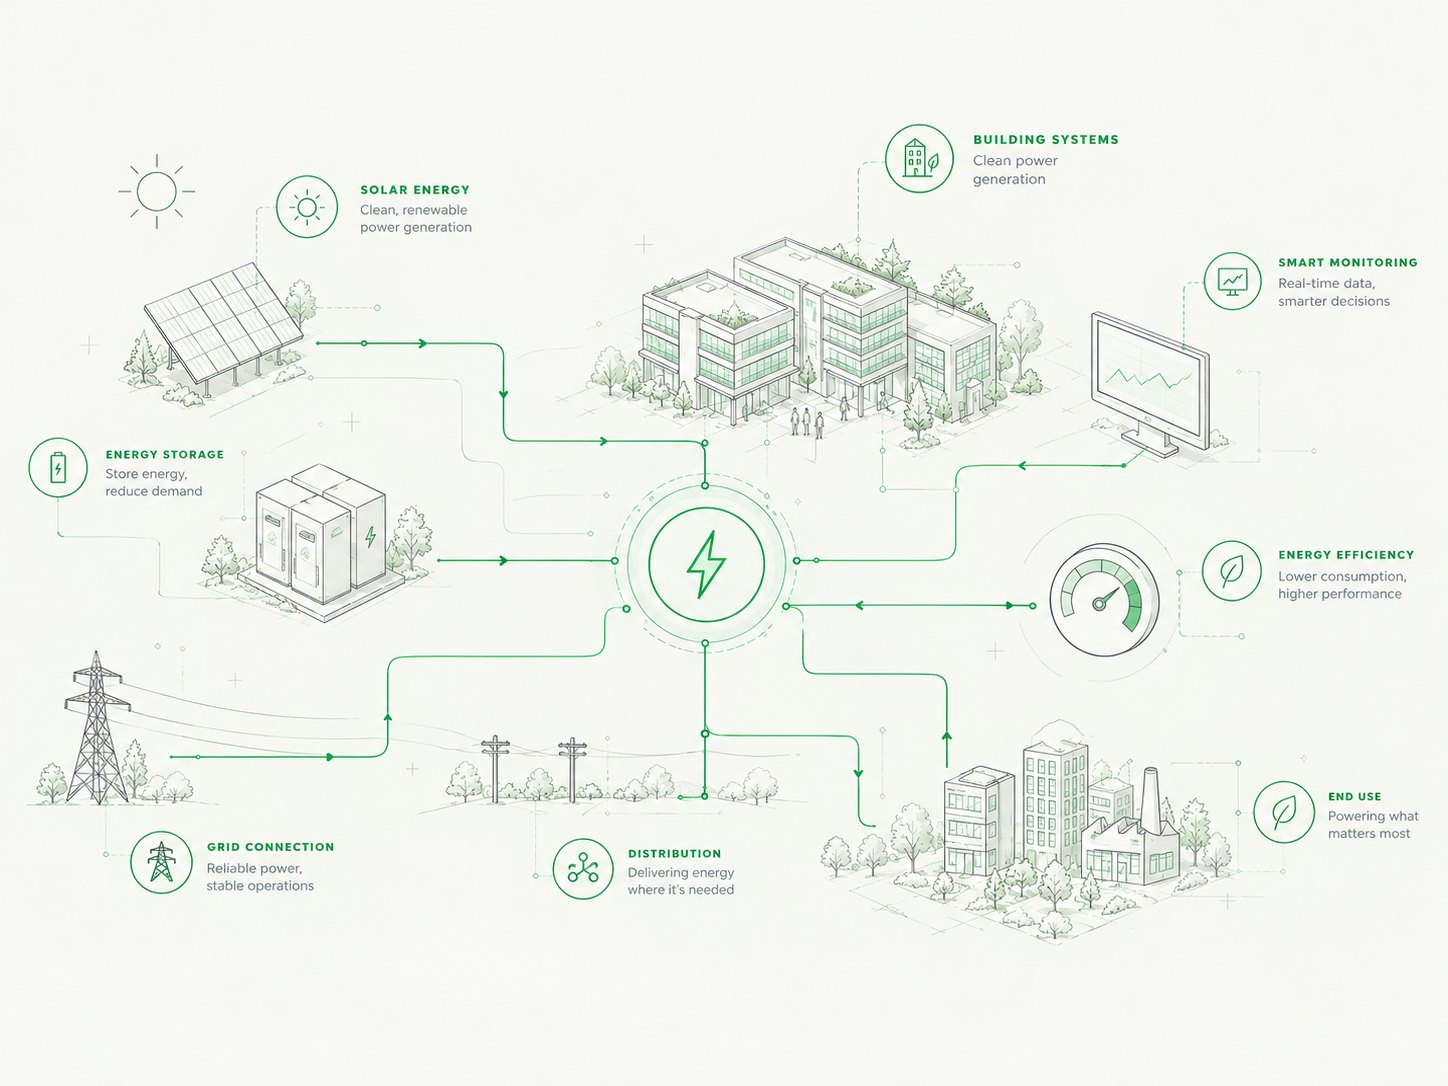
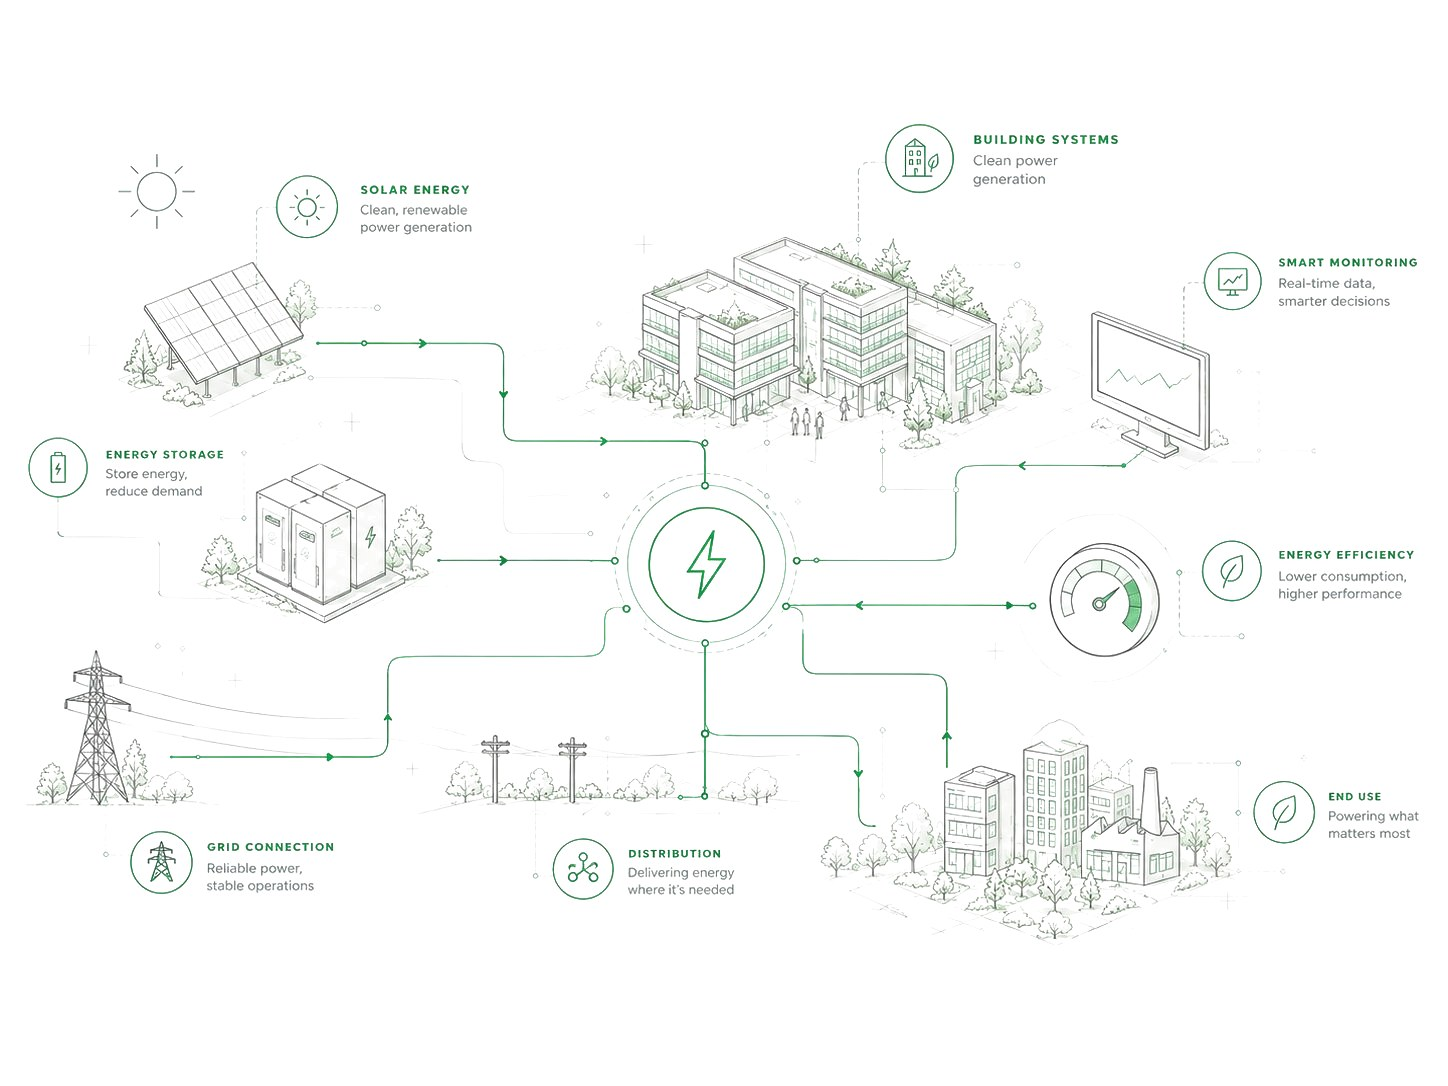
Las imagenes del hero se ven enteras, y la cifra de marcas vuelve al eje
IMAGENES DEL HERO. Las dos nuevas no son apaisadas como el render original
--1.47 contra 1.83-- y el hueco del hero en pantalla ancha es 2.95. Con
`cover` el navegador las ampliaba para llenar la franja y **solo se veia el
50% de su altura**: un trozo del edificio a tamano gigante en vez de la
escena. No habia object-position que lo salvara --se probaron 0, 5, 15, 30,
45% y bottom-- porque el problema era el recorte, no donde caia.

Las dos pasan a `contain`, que no recorta nada. El diagrama va sin
object-fit --su caja tiene la proporcion justa-- y la escena alineada a la
derecha, dejando libre la mitad izquierda para el texto.

Con `contain` la mascara pide cuidado: el dibujo NO llena su caja, asi que
un degradado calculado sobre la caja se gasta en la franja vacia y el
dibujo arranca a plena opacidad. Se veia un canto vertical duro. Las
paradas van ahora del 50% al 74%, que es donde de verdad hay dibujo.

La tercera imagen se sustituye por la que eligio el cliente: 2498x1696,
reescalada a 1920 y de 2.5 MB a 446 KB. El fondo del diagrama se paso a
blanco puro en el propio archivo --traia un crema #F8F9F4 que dibujaba su
rectangulo por mucho que se difuminara--.

SECCION DE MARCAS. La cifra estaba en x=158 y todos los titulares del sitio
en 120: `__der` conservaba un padding y un filete de cuando iba a la
DERECHA, donde ese filete la separaba de los logos. Fuera los dos.

Los logos suben de 68px a 84px --los PNG son de 200x200, no pierden
[…]

diff --git a/css/d2-variantes.css b/css/d2-variantes.css
@@ -428,8 +428,10 @@
      debajo. */
   .d2-hero__fondo {
     right: 0;
+    left: auto;
     width: 100%;
   }
+
 
   /* La regla base baja el render al 22% en movil. Sube al mismo .66 que en
      escritorio para que la cantidad de dibujo que atraviesa el panel sea la
@@ -1107,7 +1109,7 @@ span.d2-panel__filtro:hover {
      que su parte y en el hueco caben mas de los previstos. El alto es lo
      que de verdad regula cuanto ocupan: subiendolo, cada uno se ensancha
      y entran los que se han pedido. */
-  --alto-logo: clamp(48px, 5.2vw, 68px);
+  --alto-logo: clamp(56px, 6.4vw, 84px);
 
   position: relative;
   overflow: hidden;
@@ -12578,6 +12580,16 @@ span.d2-panel__filtro:hover {
      el resto. Era de una sola columna mientras la cifra estuvo retirada. */
   grid-template-columns: auto minmax(0, 1fr);
   align-items: center;
+
+  /* El hueco pasa de 49px a 92px, en dos pasos pedidos por el usuario.
+     Medido, 49px no era poco, pero el primer logo trae mucho aire propio
+     dentro de su PNG y el conjunto se leia pegado: la cifra y la fila
+     parecian un solo bloque. Con 92px la cifra se lee como dato y los
+     logos como prueba, que son dos cosas distintas.
+
+     Va en clamp para que en pantallas estrechas el hueco ceda antes que el
+     sitio de los logos. */
+  column-gap: clamp(44px, 6.4vw, 92px);
 }
 
 .d2 .d2-logos--dos__centro {
@@ -12591,6 +12603,13 @@ span.d2-panel__filtro:hover {
   grid-row: 1;
   grid-column: 1;
   max-width: 15rem;
+
+  /* Sin padding ni filete a la izquierda (7/9/2026): venian de cuando la
+     cifra iba a la DERECHA, donde el filete la separaba de los logos. Con
+     la cifra a la izquierda ese padding la empujaba 37px y la sacaba del
+     eje del sitio --estaba en 158 y el resto de titulares en 120--. */
+  padding-left: 0;
+  border-left: 0;
 }
 
 .d2 .d2-logos--dos__centro {
@@ -13051,11 +13070,26 @@ span.d2-panel__filtro:hover {
    cover. Ocupa mas ancho porque su contenido llega hasta los cuatro bordes.
    Se ve mejor con el panel oculto --el boton "No panel" de la barra--. */
 .d2 .d2-hero__fondo.es-enc-diagrama {
+  /* Pegada a la izquierda (7/9/2026): con el diagrama arrinconado a la
+     derecha quedaba una banda muerta en medio y la imagen no se integraba.
+     Ahora arranca donde acaba el texto y llega al borde. */
+  /* left al 50%: el titular acaba en 688px de 1440 --el 48%--, asi que
+     desde aqui el diagrama arranca justo despues y no lo pisa. Con el 38%
+     se le montaba encima 141px y "your team." caia sobre los paneles
+     solares. right:2% mete las etiquetas del borde --SMART MONITORING,
+     END USE-- que antes se salian de la ventana. */
   right: 0;
-  width: 62%;
-  object-fit: contain;
-  object-position: center right;
-  opacity: .72;
+  left: 50%;
+  /* width:auto con left Y right puestos no basta: la regla base fija un
+     width, y el ancho gana sobre right, asi que la caja se salia 125px por
+     la derecha. Con width explicito al 50% las dos coordenadas cuadran. */
+  width: 50%;
+  /* Sin object-fit: la caja tiene la proporcion justa para el diagrama, asi
+     que `fill` --el valor por defecto-- lo muestra entero sin recortar ni
+     dejar franjas vacias. Era `contain`, y esas franjas eran las que
+     obligaban a difuminar tanto. */
+  object-fit: fill;
+  opacity: .8;
 
   /* La mascara se difumina por los DOS lados, y no solo por la izquierda
      como la del render.
@@ -13066,20 +13100,59 @@ span.d2-panel__filtro:hover {
      duro. Con parada al 82% el desvanecido cae donde esta el dibujo.
 
      Un radial tampoco vale: probado, deja el mismo canto. */
-  mask-image: linear-gradient(to right, transparent 0%, #000 26%, #000 82%, transparent 100%);
-  -webkit-mask-image: linear-gradient(to right, transparent 0%, #000 26%, #000 82%, transparent 100%);
+  /* Degradado corto y suave: sin las franjas de `contain` el desvanecido ya
+     no tiene que tapar nada, solo integrar el borde. */
+  mask-image: linear-gradient(to right, transparent 0%, #000 8%, #000 95%, transparent 100%);
+  -webkit-mask-image: linear-gradient(to right, transparent 0%, #000 8%, #000 95%, transparent 100%);
 }
 
 /* La escena del distrito: si es cover, pero anclada abajo para que no le
    corte el remate al edificio, y mas ancha para que entre la avenida. */
 .d2 .d2-hero__fondo.es-enc-escena {
-  right: -12%;
-  width: 84%;
-  object-position: center bottom;
-  opacity: .5;
+  /* `contain` y no `cover` (7/9/2026).
 
-  /* Bajada: con el borde superior a ras del hero la ciudad quedaba pegada
-     al header y el cielo del dibujo no respiraba. */
-  top: 8%;
-  height: 92%;
+     Medido: el hero es 1878x637 --ratio 2.95-- y la imagen 1920x1304
+     --1.47--. Con `cover`, para llenar esa franja el navegador la ampliaba
+     y **solo se veia el 50% de su altura**: un trozo del edificio a tamano
+     gigante en vez de la escena. Y no habia object-position que lo
+     salvara, porque el problema es el recorte, no donde cae.
+
+     Con `contain` entra completa: el edificio con sus plantas, los arboles
+     y la plaza con las lineas de datos. Alineada a la derecha, para que la
+     mitad izquierda quede libre para el texto.
+
+     El degradado baja por tramos --.2 al 14%, .8 al 34%-- asi que sobre el
+     titular queda un rastro tenue en vez de un borde. */
+  left: 0;
+  right: 0;
+  width: 100%;
+  object-fit: contain;
+  object-position: right center;
+  opacity: .66;
+  /* Las paradas van del 50% al 74% y NO antes, porque con `contain` el
+     dibujo no llena la caja: alineado a la derecha, empieza justo en el
+     50% --medido: x=940 de 1878--. Con el degradado acabando en el 52% se
+     gastaba casi entero sobre la franja vacia y el dibujo arrancaba a
+     plena opacidad: canto vertical duro a la izquierda. */
+  mask-image: linear-gradient(to right,
+    transparent 50%, rgba(0, 0, 0, .35) 58%, rgba(0, 0, 0, .8) 66%, #000 74%);
+  -webkit-mask-image: linear-gradient(to right,
+    transparent 50%, rgba(0, 0, 0, .35) 58%, rgba(0, 0, 0, .8) 66%, #000 74%);
+}
+
+/* En una sola columna el texto ocupa todo el ancho, asi que el diagrama no
+   puede arrancar al 50%: se le montaba encima. Vuelve a ancho completo y
+   mas tenue, como marca de agua, con el desvanecido de arriba abajo.
+
+   Va al FINAL del archivo a proposito: la regla de escritorio esta en la
+   linea ~13060 y, dentro de la media query pero antes de ella, la pisaba. */
+@media (max-width: 900px) {
+  .d2 .d2-hero__fondo.es-enc-diagrama {
+    left: auto;
+    right: 0;
+    width: 100%;
+    opacity: .3;
+    -webkit-mask-image: linear-gradient(to bottom, transparent 0%, #000 30%, #000 100%);
+            mask-image: linear-gradient(to bottom, transparent 0%, #000 30%, #000 100%);
+  }
 }
